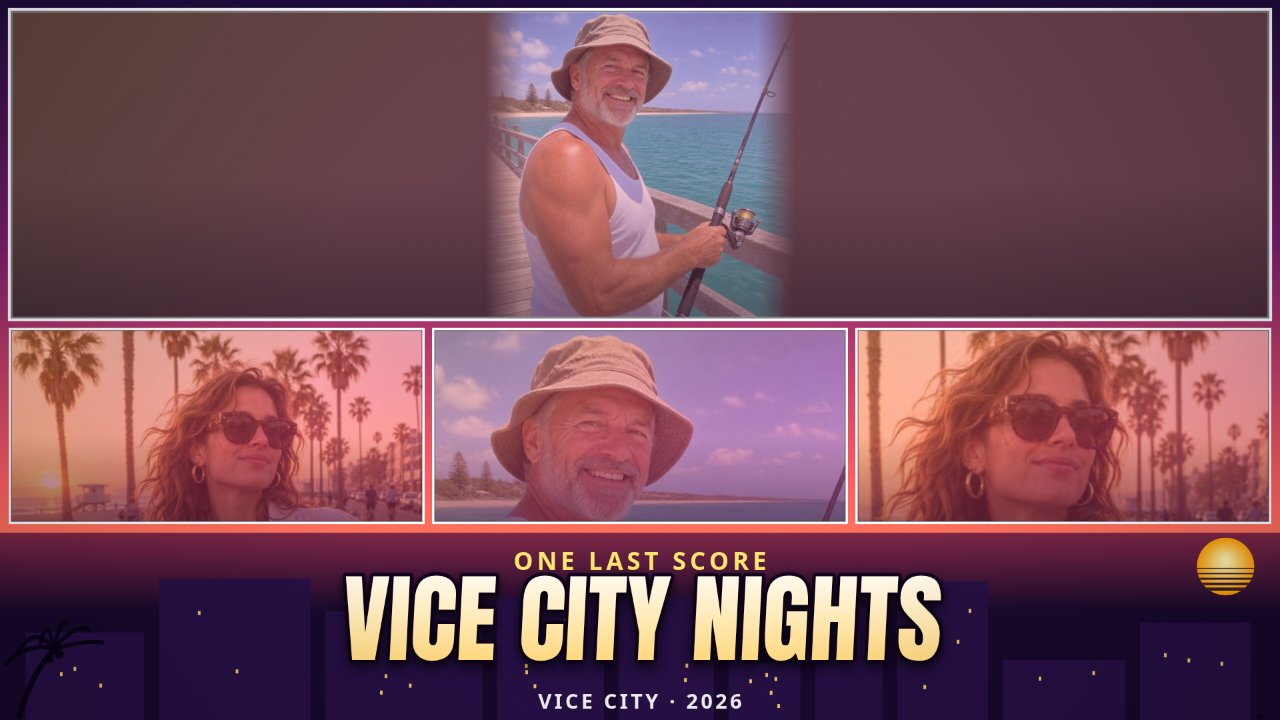
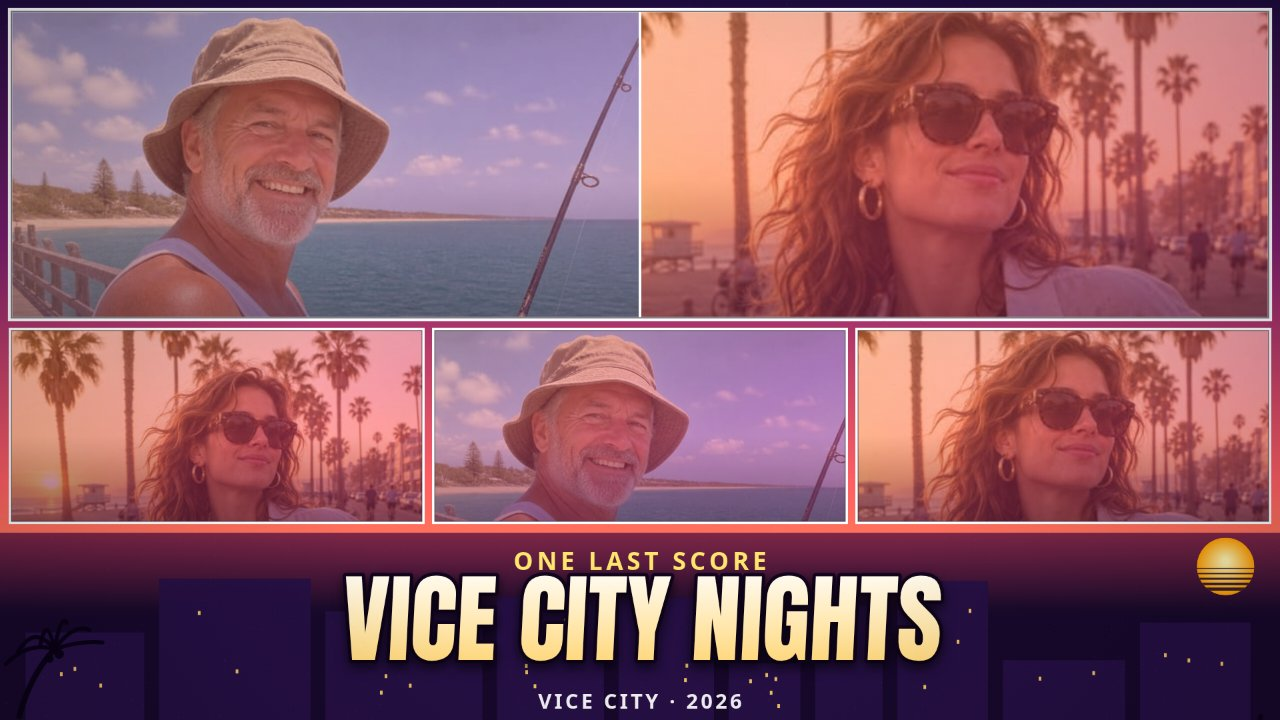
Sonnet loop-3 revision: diptych hero, fishing-rod panel, headroom/brim margins

diff --git a/app/src/cover.js b/app/src/cover.js
@@ -21,13 +21,13 @@ export function layoutPanels(layout, w, h) {
     const heroH = areaH * 0.58, rowY = y0 + heroH + gw;
     const cw = (x1 - x0 - 2 * gw) / 3;
     return [
-      // Hero: contained (full photo, sharp) on a colour-matched matte.
-      // Cover-fill would force a 2.6x upscale of the 720px sample and
-      // cannot keep both the hat and the face in a ~4:1 frame, so the photo
-      // stays contained; the matte (the photo's average colour, darkened)
-      // with feathered photo edges replaces the old blurred bars, which
-      // read as a rendering error.
-      { x: x0, y: y0, w: x1 - x0, h: heroH, contain: true },
+      // Hero: a two-photo diptych (the hero panel's photo on the left, the
+      // second panel's photo on the right), each cover-fit into its half.
+      // A single cover-fill of the 720px sample cannot keep both the hat
+      // and the face in a ~4:1 frame (a ~177px slice), and the contained
+      // photo left the hero mostly empty fill that read as a placeholder.
+      // Each half is ~2:1, so a cover-fit keeps the hat and the face.
+      { x: x0, y: y0, w: x1 - x0, h: heroH, heroDuo: true },
       { x: x0, y: rowY, w: cw, h: y1 - rowY },
       { x: x0 + cw + gw, y: rowY, w: cw, h: y1 - rowY },
       { x: x0 + 2 * (cw + gw), y: rowY, w: cw, h: y1 - rowY },
@@ -243,6 +243,80 @@ function drawPhotoPanel(ctx, rect, panel, grade) {
   ctx.strokeRect(x + 2, y + 2, w - 4, h - 4);
 }
 
+// Draws one photo cover-fit into `rect` with the grade wash/tint/shade
+// (no frame — the caller draws the frame). `f` is the panel framing
+// {zoom, ox, oy, anchorTop, wash, tintBoost}.
+function drawCoverFit(ctx, rect, img, f, grade) {
+  const { x, y, w, h } = rect;
+  ctx.save();
+  ctx.beginPath();
+  ctx.rect(x, y, w, h);
+  ctx.clip();
+  if (img) {
+    const zoom = f.zoom || 1;
+    const iw = img.naturalWidth, ih = img.naturalHeight;
+    const ox = ((f.ox || 0) / 100) * w;
+    const oy = ((f.oy || 0) / 100) * h;
+    const base = Math.max(w / iw, h / ih) * zoom;
+    const pw = iw * base, ph = ih * base;
+    const yOff = f.anchorTop ? 0 : (h - ph) / 2;
+    ctx.drawImage(img, x + (w - pw) / 2 + ox, y + yOff + oy, pw, ph);
+  }
+  const wash = ctx.createLinearGradient(x, y, x + w * 0.25, y + h);
+  wash.addColorStop(0, grade.wash[0]);
+  wash.addColorStop(1, grade.wash[1]);
+  ctx.save();
+  ctx.globalAlpha = f.wash ?? 1;
+  ctx.fillStyle = wash;
+  ctx.fillRect(x, y, w, h);
+  ctx.restore();
+  if (grade.tint) {
+    ctx.fillStyle = grade.tint;
+    ctx.fillRect(x, y, w, h);
+  }
+  if (f.tintBoost) {
+    for (let k = 0; k < f.tintBoost; k++) {
+      ctx.fillStyle = grade.tint;
+      ctx.fillRect(x, y, w, h);
+    }
+  }
+  const shade = ctx.createLinearGradient(x, y + h * 0.55, x, y + h);
+  shade.addColorStop(0, 'rgba(10,2,24,0)');
+  shade.addColorStop(1, 'rgba(10,2,24,0.35)');
+  ctx.fillStyle = shade;
+  ctx.fillRect(x, y, w, h);
+  ctx.restore();
+}
+
+// The strip hero as a two-photo diptych: the hero panel's photo on the
+// left (its own framing), the second panel's photo on the right. The right
+// half uses the second panel's hero framing (heroZoom/heroOx/heroOy) when
+// present, so it can be a different crop from the second panel's own
+// bottom-row framing. One outer frame, so the hero reads as one panel.
+function drawHeroDuo(ctx, rect, leftPanel, rightPanel, grade) {
+  const { x, y, w, h } = rect;
+  const gap = Math.max(4, Math.min(w, h) * 0.008);
+  const hw = (w - gap) / 2;
+  drawCoverFit(ctx, { x, y, w: hw, h }, leftPanel.img, leftPanel, grade);
+  const rf = {
+    zoom: rightPanel.heroZoom ?? rightPanel.zoom,
+    ox: rightPanel.heroOx ?? rightPanel.ox,
+    oy: rightPanel.heroOy ?? rightPanel.oy,
+    anchorTop: rightPanel.anchorTop,
+    wash: rightPanel.wash,
+    tintBoost: rightPanel.tintBoost,
+  };
+  drawCoverFit(ctx, { x: x + hw + gap, y, w: hw, h }, rightPanel.img, rf, grade);
+  ctx.fillStyle = '#ffffff';
+  ctx.fillRect(x + hw, y, gap, h);
+  ctx.lineWidth = Math.max(3, Math.min(w, h) * 0.014);
+  ctx.strokeStyle = '#ffffff';
+  ctx.strokeRect(x, y, w, h);
+  ctx.lineWidth = Math.max(1, Math.min(w, h) * 0.004);
+  ctx.strokeStyle = 'rgba(10,2,24,0.55)';
+  ctx.strokeRect(x + 2, y + 2, w - 4, h - 4);
+}
+
 function fitFont(ctx, text, maxWidth, startSize, family) {
   let size = startSize;
   ctx.font = `${size}px ${family}`;
@@ -280,10 +354,13 @@ export function drawCover(canvas, state) {
   ctx.fillStyle = sky;
   ctx.fillRect(0, 0, w, h);
 
-  // Panels.
+  // Panels. The strip hero is a two-photo diptych (panels 0 and 1).
   const rects = layoutPanels(state.layout, w, h);
   const count = layoutPanelCount(state.layout);
-  for (let i = 0; i < count; i++) drawPhotoPanel(ctx, rects[i], state.panels[i], grade);
+  for (let i = 0; i < count; i++) {
+    if (state.layout === 'strip' && i === 0) drawHeroDuo(ctx, rects[0], state.panels[0], state.panels[1], grade);
+    else drawPhotoPanel(ctx, rects[i], state.panels[i], grade);
+  }
 
   // Title band: dark base, skyline, palms at both ends, retro sun peeking behind.
   ctx.fillStyle = grade.band;

diff --git a/app/src/shots.js b/app/src/shots.js
@@ -23,19 +23,29 @@ export async function runShot(shot, query, api) {
   for (let i = 0; i < 4; i++) await loadSample(state.panels[i], samples[i]);
   // Give repeated photos visibly different framings, so no two panels look cloned.
   // anchorTop keeps heads in frame on the wide/short panels. Each layout gets
-  // its own set: the strip hero is contained (full photo, sharp) with a weaker
-  // wash so the face keeps natural skin tones; the strip's second pier panel
-  // is a tight face close-up, clearly different from the wide hero; the
-  // split's first panel is cover-fill (the tall frame crops the sides, never
-  // the top, so the hat stays in frame) with an extra tint pass so its cool
-  // daylight photo reads as warm as the other panels, and its third panel is
-  // a tight face close-up panned to centre the face with margin. The strip's
-  // pier close-up is capped at zoom 1.25: the man's chin sits at y≈256/720,
+  // its own set: the strip hero is a two-photo diptych (panels 0 and 1, each
+  // cover-fit into its half — each half is ~2:1, so the hat and the face both
+  // fit, which a single cover-fill of the ~4:1 hero could not do). The second
+  // panel carries a separate hero framing (heroZoom/heroOx/heroOy) for its
+  // hero-half crop, distinct from its bottom-row framing; the woman's hero
+  // crop is a tighter face-and-shoulders shot (measured: her face sits at
+  // source y≈86–241, hair top y≈58). The strip's pier close-up is loosened
+  // to zoom 1.15 for a touch more headroom (the hat sits at the very top of
+  // the source, y≈7, so the geometry caps it), and the woman's tight face is
+  // loosened to zoom 1.3 with oy -25 so her hair top and chin both stay in
+  // frame. The split's first panel is cover-fill (the tall frame crops the
+  // sides, never the top, so the hat stays in frame) with an extra tint pass
+  // so its cool daylight photo reads as warm as the other panels, panned to
+  // ox 22 so the hat's left brim clears the frame edge; its third panel is
+  // now the fishing-rod shot — the right side of the pier photo (the rod
+  // lives at source x≈438–720, the face ends at x≈436), so it shows rod +
+  // reel + sea and no face, reading as a different image. The strip's pier
+  // close-up is capped at zoom 1.25: the man's chin sits at y≈256/720,
   // so a tighter zoom would cut it (measured, not guessed).
   const framings = layout === 'strip'
-    ? [{ zoom: 1, ox: 0, oy: 0, wash: 0.45 }, { zoom: 1, ox: 0, oy: 0, wash: 1, anchorTop: true }, { zoom: 1.25, ox: 0, oy: 0, wash: 1, anchorTop: true }, { zoom: 1.45, ox: -15, oy: -28, wash: 1, anchorTop: true }]
+    ? [{ zoom: 1, ox: 0, oy: 0, wash: 0.45, anchorTop: true, tintBoost: 1 }, { zoom: 1, ox: 0, oy: 0, wash: 1, anchorTop: true, heroZoom: 1.25, heroOx: -8, heroOy: -27 }, { zoom: 1.15, ox: 0, oy: 0, wash: 1, anchorTop: true }, { zoom: 1.3, ox: -8, oy: -25, wash: 1, anchorTop: true }]
     : layout === 'split'
-      ? [{ zoom: 1, ox: 12, oy: 0, wash: 1, anchorTop: true, tintBoost: 1 }, { zoom: 1, ox: 10, oy: 0, wash: 1, anchorTop: true }, { zoom: 1.35, ox: 18, oy: 0, wash: 1, anchorTop: true }, { zoom: 1, ox: 0, oy: 0, wash: 1, anchorTop: true }]
+      ? [{ zoom: 1, ox: 22, oy: 0, wash: 1, anchorTop: true, tintBoost: 1 }, { zoom: 1, ox: 10, oy: 0, wash: 1, anchorTop: true }, { zoom: 1.15, ox: -79, oy: 0, wash: 1, anchorTop: true, tintBoost: 1 }, { zoom: 1, ox: 0, oy: 0, wash: 1, anchorTop: true }]
       : [{ zoom: 1, ox: 0, oy: 0, wash: 1, anchorTop: true }, { zoom: 1, ox: 0, oy: 0, wash: 1, anchorTop: true }, { zoom: 1.35, ox: 14, oy: 0, wash: 1, anchorTop: true }, { zoom: 1.35, ox: -14, oy: 0, wash: 1, anchorTop: true }];
   state.panels.forEach((p, i) => Object.assign(p, framings[i]));
   // Reflect the chosen layout/grade/size in the control buttons.

diff --git a/app/src/main.js b/app/src/main.js
@@ -140,18 +140,19 @@ async function applyPreset(name) {
     document.querySelectorAll(`#${id} button`).forEach((x) => x.classList.toggle('on', x.dataset[key] === p[key]));
   }
   for (let i = 0; i < 4; i++) await loadSample(state.panels[i], p.samples[i]);
-  // Same layout-specific framings as the screenshot scenes: the strip hero is
-  // contained with a weaker wash, the strip's second pier panel is a closer
-  // face crop (zoom capped at 1.25 so the hat and chin both stay in frame),
-  // the split's first panel is cover-fill with an extra tint pass so its cool
-  // daylight photo reads as warm as the other panels, and its third panel is
-  // a tight face close-up panned to centre the face with margin. (The old
-  // strip hero used oy=-50, which is gone now that the hero is contained —
-  // the fit centres the photo with headroom.)
+  // Same layout-specific framings as the screenshot scenes, tuned for each
+  // preset's own photo assignment (the queen preset leads with boulevard,
+  // the 1-cover shot with pier, so the strip values differ between the two).
+  // The strip hero is a two-photo diptych (panels 0 and 1, each cover-fit
+  // into its half); the second panel carries a separate hero framing
+  // (heroZoom/heroOx/heroOy) for its hero-half crop. The split's third
+  // panel is the fishing-rod shot (ox -79 reaches the rod at the right edge
+  // of the pier photo — hence the Pan sliders now span -100..100), and its
+  // first panel is panned to ox 22 so the hat's left brim clears the frame.
   const framings = p.layout === 'strip'
-    ? [{ zoom: 1, ox: 0, oy: 0, wash: 0.45 }, { zoom: 1, ox: 0, oy: 0, wash: 1, anchorTop: true }, { zoom: 1.25, ox: 0, oy: 0, wash: 1, anchorTop: true }, { zoom: 1.45, ox: -15, oy: -28, wash: 1, anchorTop: true }]
+    ? [{ zoom: 1, ox: 0, oy: 0, wash: 0.45, anchorTop: true }, { zoom: 1, ox: 0, oy: 0, wash: 1, anchorTop: true, heroZoom: 1, heroOx: 0, heroOy: 0, tintBoost: 1 }, { zoom: 1.15, ox: 0, oy: -22, wash: 1, anchorTop: true }, { zoom: 1.3, ox: 0, oy: 0, wash: 1, anchorTop: true }]
     : p.layout === 'split'
-      ? [{ zoom: 1, ox: 12, oy: 0, wash: 1, anchorTop: true, tintBoost: 1 }, { zoom: 1, ox: 10, oy: 0, wash: 1, anchorTop: true }, { zoom: 1.35, ox: 18, oy: 0, wash: 1, anchorTop: true }, { zoom: 1, ox: 0, oy: 0, wash: 1, anchorTop: true }]
+      ? [{ zoom: 1, ox: 22, oy: 0, wash: 1, anchorTop: true, tintBoost: 1 }, { zoom: 1, ox: 10, oy: 0, wash: 1, anchorTop: true }, { zoom: 1.15, ox: -79, oy: 0, wash: 1, anchorTop: true, tintBoost: 1 }, { zoom: 1, ox: 0, oy: 0, wash: 1, anchorTop: true }]
       : [{ zoom: 1, ox: 0, oy: 0, wash: 1, anchorTop: true }, { zoom: 1, ox: 0, oy: 0, wash: 1, anchorTop: true }, { zoom: 1.35, ox: 14, oy: 0, wash: 1, anchorTop: true }, { zoom: 1.35, ox: -14, oy: 0, wash: 1, anchorTop: true }];
   state.panels.forEach((panel, i) => Object.assign(panel, framings[i]));
   redraw();
